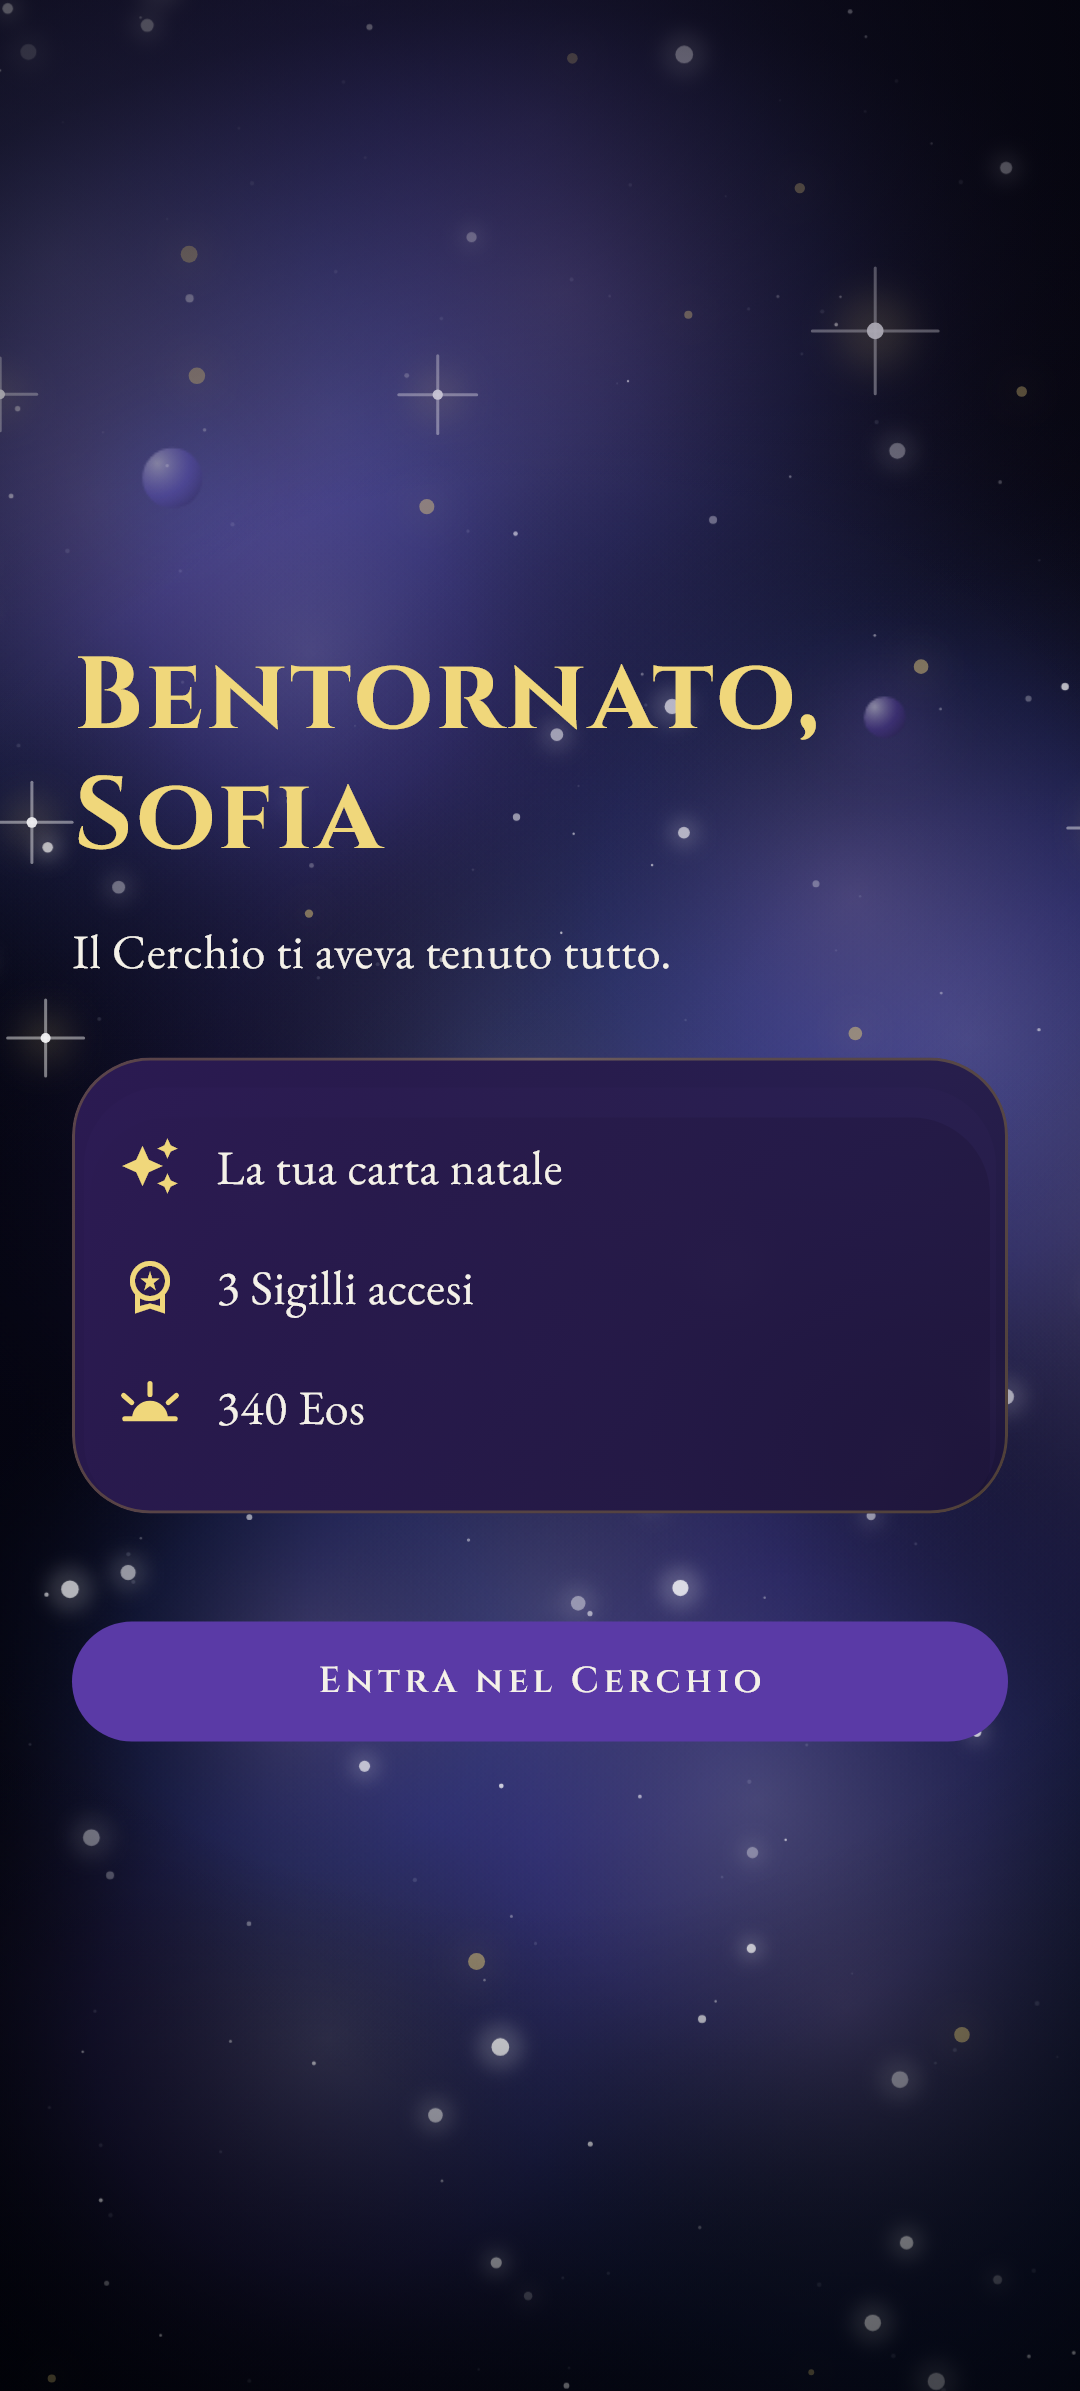
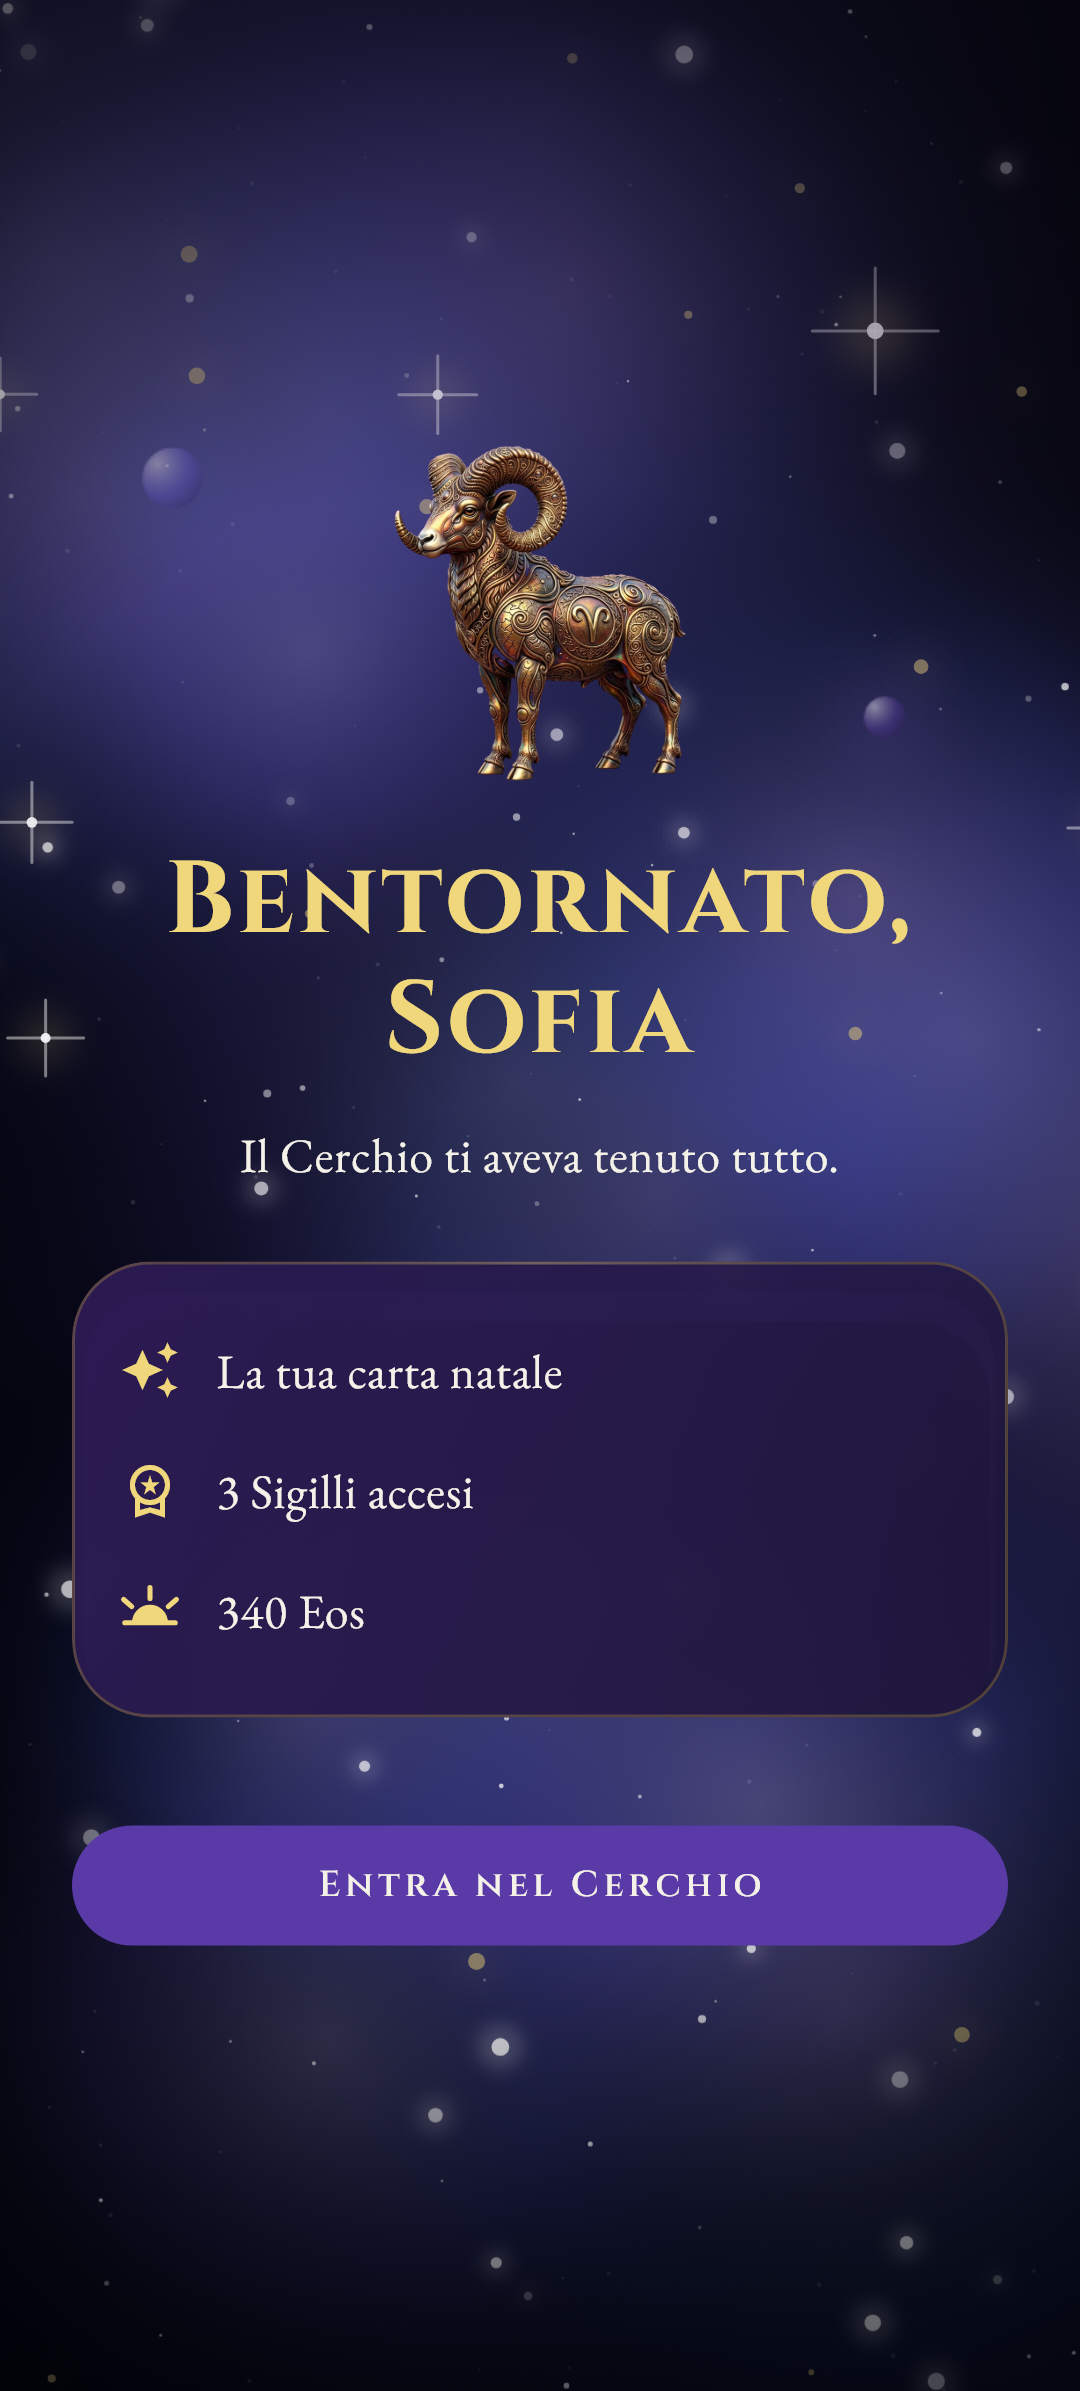
AQ.04: il Bentornato si apre con l'emblema di chi torna
La schermata che Mauro ha visto vuota si apriva con una riga di testo.
Adesso arriva prima il livello visivo: l'emblema del proprio segno, dagli
asset che il Cerchio ha gia', poi il nome, poi cio' che e' tornato coi
numeri veri.

Il segno non e' un dato in piu' da custodire: nasce dal giorno di
nascita restituito, come ovunque nell'app. Se il giorno non e' tornato
l'emblema non compare, perche' l'emblema di qualcun altro sarebbe peggio
di nessun emblema.

Changed region(s): [[0.0611, 0.1857, 0.9472, 0.8356], [0.0611, 0.3714, 0.0917, 0.4023]]

diff --git a/lib/features/onboarding/scena_del_ritrovamento.dart b/lib/features/onboarding/scena_del_ritrovamento.dart
@@ -2,6 +2,7 @@ import 'package:flutter/material.dart';
 
 import '../../core/cammino/ritrovamento.dart';
 import '../../core/maestro/maestro.dart';
+import '../../design_system/components/zodiac_glyph.dart';
 import '../../design_system/components/cosmos_background.dart';
 import '../../design_system/components/depth_card.dart';
 import '../../design_system/components/icona_degli_eos.dart';
@@ -61,17 +62,36 @@ class ScenaDelRitrovamento extends StatelessWidget {
             padding: const EdgeInsets.all(SpacingTokens.lg),
             child: Column(
               mainAxisAlignment: MainAxisAlignment.center,
-              crossAxisAlignment: CrossAxisAlignment.start,
+              crossAxisAlignment: CrossAxisAlignment.center,
               children: [
+                // **IL LIVELLO VISIVO PRIMA DEL TESTO, ordine AQ voce 04.**
+                // La schermata che Mauro ha visto vuota si apriva con una
+                // riga di testo: qui arriva prima l'EMBLEMA del proprio
+                // segno, preso dagli asset che il Cerchio ha gia'. Non e' un
+                // ornamento: e' la prima cosa che dice "questo sei tu", e
+                // compare solo se il segno c'e' davvero, perche' l'emblema di
+                // qualcun altro sarebbe peggio di nessun emblema.
+                if (ritrovamento.segno != null) ...[
+                  ZodiacEmblem(
+                    key: const Key('ritrovamento_emblema'),
+                    sign: ritrovamento.segno!,
+                    size: 120,
+                    ripiego: Icon(Icons.auto_awesome,
+                        size: 72, color: palette.goldSoft),
+                  ),
+                  const SizedBox(height: SpacingTokens.md),
+                ],
                 Text(
                   nome == null ? 'Bentornato nel Cerchio' : 'Bentornato, $nome',
                   key: const Key('ritrovamento_saluto'),
+                  textAlign: TextAlign.center,
                   style: TypographyTokens.cerimonialeGrande()
                       .copyWith(color: palette.goldSoft),
                 ),
                 const SizedBox(height: SpacingTokens.sm),
                 Text(
                   'Il Cerchio ti aveva tenuto tutto.',
+                  textAlign: TextAlign.center,
                   style: TypographyTokens.corpo()
                       .copyWith(color: ColorTokens.textPrimary, height: 1.5),
                 ),

diff --git a/lib/core/cammino/ritrovamento.dart b/lib/core/cammino/ritrovamento.dart
@@ -1,3 +1,4 @@
+import '../astro/zodiac.dart';
 import 'cammino_da_custodire.dart';
 
 /// I PASSI DEL RITO CHE CHIEDONO UN DATO DI NASCITA.
@@ -32,6 +33,7 @@ class Ritrovamento {
     required this.quantiTraguardi,
     required this.quantiEos,
     required this.nome,
+    required this.segno,
   });
 
   /// Tutti i passi che chiedono un dato: e' cio' che si fa alla prima volta.
@@ -51,6 +53,12 @@ class Ritrovamento {
 
   /// Il nome ritrovato, per salutare chi torna con quello che e' suo.
   final String? nome;
+
+  /// **IL SEGNO, ordine AQ voce 04.** Non e' un dato in piu' custodito: nasce
+  /// dal giorno di nascita che il Cerchio ha restituito, come nasce ovunque
+  /// nell'app. Nullo quando il giorno non e' tornato, e allora l'emblema non
+  /// compare: meglio niente che il segno di qualcun altro.
+  final Zodiac? segno;
 
   /// Vero se non c'e' piu' niente da chiedere: il rito non si rifa'.
   bool get siSalta => passiDaChiedere.isEmpty;
@@ -80,6 +88,7 @@ class Ritrovamento {
       quantiTraguardi: cammino?.sigilli.length ?? 0,
       quantiEos: saldoEos,
       nome: identita?.nome,
+      segno: identita?.giorno == null ? null : Zodiac.fromDate(identita!.giorno!),
     );
   }
 }

diff --git a/test/l_onboarding_non_si_rifa_test.dart b/test/l_onboarding_non_si_rifa_test.dart
@@ -180,4 +180,22 @@ void main() {
     expect(testi.toLowerCase(), contains('ora'),
         reason: 'il rito non si e aperto sul passo che manca: "$testi"');
   });
+
+  test('il Bentornato porta il segno, e solo se il giorno e tornato', () {
+    // **ORDINE AQ VOCE 04.** L'emblema nasce dal giorno di nascita, come
+    // ovunque nell'app: non e' un dato in piu' da custodire. Senza giorno non
+    // c'e' segno, e la scena non mostra l'emblema di qualcun altro.
+    final conGiorno = Ritrovamento.da(CamminoDaCustodire(
+      identita: identita(nome: 'Sofia', giorno: DateTime(1990, 4, 12)),
+    ));
+    // ignore: avoid_print
+    print('ORDINE AQ VOCE 04: dal 12 aprile nasce il segno '
+        '${conGiorno.segno?.id}');
+    expect(conGiorno.segno, isNotNull);
+    final senzaGiorno = Ritrovamento.da(CamminoDaCustodire(
+      identita: identita(nome: 'Sofia'),
+    ));
+    expect(senzaGiorno.segno, isNull,
+        reason: 'senza giorno di nascita si mostrerebbe il segno di un altro');
+  });
 }

diff --git a/docs/ordini/ORDINE_AQ_MANIFESTO.md b/docs/ordini/ORDINE_AQ_MANIFESTO.md
@@ -164,9 +164,18 @@ agosto 2026.
   quei nomi, cioe' la riga che mancava. Rosso provato togliendo una scena
   dall'elenco.
   **Nessun telefono ha acceso questa cura**: la chiude il collaudo sulla 2185)
-- **AQ.04** Il Bentornato si riempie. Stato: APERTA
-  (emblema del segno dagli asset esistenti, nome, e le righe dei dati veri:
-  nessun numero d'esempio, e cio' che non c'e' non compare)
+- **AQ.04** Il Bentornato si riempie. Stato: FERMATA IN ATTESA DI DECISIONE
+  (la scena si apre col LIVELLO VISIVO e non piu' con una riga di testo:
+  l'EMBLEMA del proprio segno, 120 punti, preso da `assets/img/zodiac` che il
+  Cerchio ha gia', poi il nome, poi le righe di cio' che e' tornato coi numeri
+  veri. **Il segno non e' un dato in piu' da custodire**: nasce dal giorno di
+  nascita restituito, come nasce ovunque nell'app, e se il giorno non e'
+  tornato l'emblema NON compare, perche' l'emblema di qualcun altro sarebbe
+  peggio di nessun emblema. Prova nuova in
+  `test/l_onboarding_non_si_rifa_test.dart`: col 12 aprile nasce l'Ariete,
+  senza giorno il segno resta nullo. Anteprima `ritrovamento.png` rigenerata
+  dall'app vera e guardata: emblema, nome, carta natale, tre Sigilli, 340 Eos.
+  **Nessun telefono ha acceso questa cura**: la chiude il collaudo sulla 2185)
 - **AQ.05** "Non perdere il tuo cielo" diventa leggibile. Stato: APERTA
   (una promessa, una riga, i pulsanti; il testo superfluo si toglie invece di
   rimpicciolirlo; misure prima e dopo)
@@ -178,7 +187,7 @@ agosto 2026.
 ## I marcatori, contati sulle righe
 
 VOCI_TOTALI: 6
-VOCI_APERTE: 3
+VOCI_APERTE: 2
 VOCI_CHIUSE: 0
 VOCI_FERMATE_SU_PREMESSA_FALSA: 0
-VOCI_FERMATE_IN_ATTESA_DI_DECISIONE: 3
+VOCI_FERMATE_IN_ATTESA_DI_DECISIONE: 4
